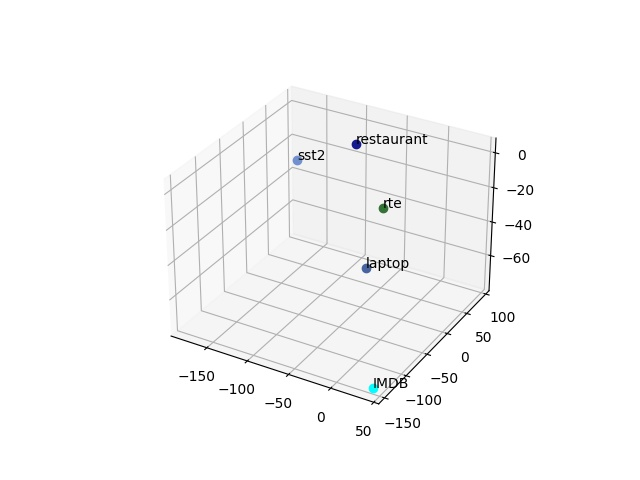
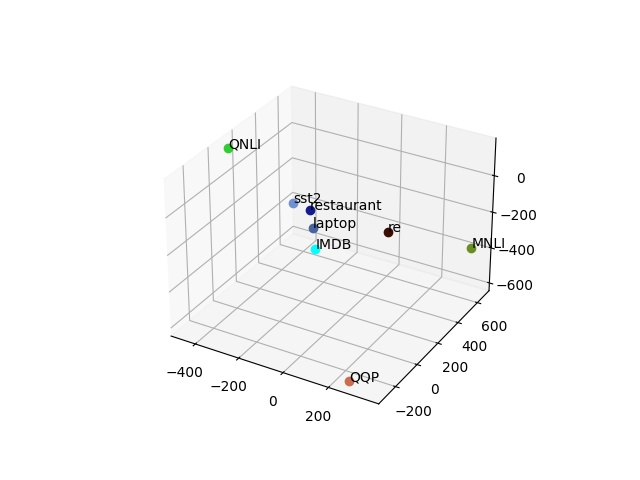
update

diff --git a/draw_cuda_taskprompt.py b/draw_cuda_taskprompt.py
@@ -478,7 +478,7 @@ color_map={0:"#728FCE",1:"#347235",2:"#3D0C02",3:"#6B8E23",4:"#C04000",5:"#32CD3
 
 
 #blocked_list = [1,3,4,5,6,7,8]
-blocked_list = []
+blocked_list = [1,4,7,8]
 
 #sentiment, NLI, RE, Paraphrase
 #blocked_list = [5,8]
@@ -586,7 +586,8 @@ elif dim == 3:
 #plt.legend(loc="upper left")
 #plt.title("Task Prompt Dist")
 #plt.savefig('output.pdf')
-plt.savefig('output.jpg')
+#plt.savefig('output.jpg')
+plt.savefig('exp_results/SENTIMENT.jpg')
 #plt.savefig('exp_results/PCA_DOMAIN_BASE_SENTIMENT.jpg')
 
 
